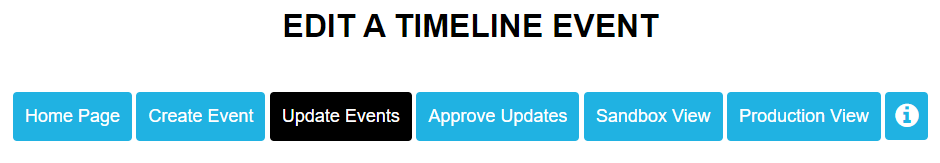
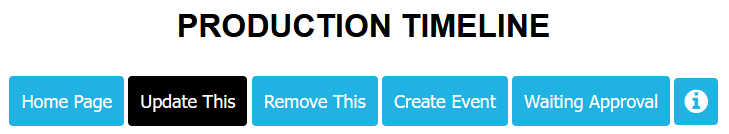
updating help

Changed region(s): [[0.0, 0.5373, 0.9959, 0.9552], [0.2414, 0.0597, 0.7545, 0.2985]]

diff --git a/css/style.css b/css/style.css
@@ -31,7 +31,7 @@ body,p {
   top: 0;
   margin: 1em;
   padding: 0.5em;
-  color: #ccc;
+  color: #aaa;
   border: 1px solid #ddd;
   border-radius: 4px;
 }

diff --git a/src/help.php b/src/help.php
@@ -44,6 +44,44 @@
 
       <div class="leftBlock">
 
+      <h2>Guideline to Contribute to the CIS History Timeline</h2>
+
+        <b>This document provides a guideline on best practices while contributing to the CIS History Timeline (CIS-HT).</b>
+        <br><br>
+        The purpose of the CIS-HT is to provide a portal where CIS students, researchers, and the public in general can find important past (and future, i.e. soon-to-be-past) 
+        events in the History of the CIS and CI in general.  Here, users will be able to upload pictures of attendees and participants in such CIS events; original documents,
+         manuscripts, and reports that reflect important milestones in our history and the history of the development of CI and AI in general; videos with interviews of 
+         prominent researchers; and so on.  The CIS-HT follows a wikipedia-like model where anyone can contribute. However, ours is a moderated model, meaning: contributions 
+         will be submitted and initially hidden from other users. All submissions will then be scrutinized by the CIS History Committee members who will approve or reject 
+         the contribution according to the following criteria:
+        <br><br>
+        <b>1.</b> Photos/Videos must be owned by the authors;
+        <br>
+        <b>2.</b> Permissions for use of the material must be obtained whenever applicable;
+        <br>
+        <b>3.</b> Materials/Events should not focus on ‘self-promotion’ or the promotion of any particular group, but of the CIS and its members in general -- e.g. 
+                  pictures of attendees in a conference must not focus on one person/group of people;
+        <br>          
+        <b>4.</b> Documents must have a recognizable and widely accepted historical value to the CIS;
+        <br>
+        ...
+        <br><br>
+        Once approved, the contribution will be made publicly visible and the author(s) will be notified. If any contribution violates any of the guidelines, the author of the contribution will be simply informed of the guideline number that was violated. No further explanations will be provided, however one opportunity for an appeal to the decision will be accepted.
+        <br><br>
+        Indicate in the submission form which criterion is ‘appeable’ -- e.g. #4 would not be appeable. The form should include a justification for the submission.
+        <br><br>
+        For sake of documenting the reason the committee denied a contribution and avoid having to list every single reason, the form will include a reason for the denial.  
+        <br><br>
+        Add information on how to submit (directly on the website or by email). 
+        <br><br>
+        Copyright material: should be mentioned? Should it list the name of the owner? Keep archive of all submission forms, emails, etc… with copyright information.
+        <br><br>
+        Make website look and feel like a museum 
+        <br><br>
+        Prepare the form for downloading and online access
+
+        <br><br><hr><br><br>
+
 
         <span id="navegation"> </span>
           <h2>How to Navigate The Timeline</h2>
@@ -55,7 +93,7 @@
           <h2>How To Create a New Event</h2>
           <ul class="helpItem">
             <li>Click on the "Create Event" menu button.</li>
-            <img class="helpImg" src="/img/CreateEvent.png" width="800px" title="Create Option">
+            <img class="helpImg" src="/img/CreateEvent.png" width="550px" title="Create Option">
             <li>Field the event information <a href="#Enfio"><i style="font-size:24px; color:#20b2e2" class="fa">&#xf059;</i></a>. Every event must have at least a title and a start date.</li>
             <li>Include the comments/reason about the new event at the end of form and click on the "Create" button to submit the form.</li>
             <li>You can update the new event later after creating it. The new event will move to production when the Historical Committe aprove it. </li>
@@ -101,34 +139,36 @@
         <span id="updating"> </span>
           <h2>How To Update an Event</h2>
           <ul class="helpItem">
-            <li>Click on the "Update Event" menu button.</li>
-            <img class="helpImg" src="/img/UpdateEvent.png" width="800px" title="Update Event">
-            <li>A list of events will be displayed. Your updated events will be displayed at the top of the list followed by other events in production sorted by starting date. </li>
-            <img class="helpImg" src="/img/UpdateEventList.png" width="800px" title="Event's list">
-            <li>Click on the "Update" button option. A new page will be loaded with the event's information.
-              Update the event's information, include some comments or reason about the updates for the committee and click on "Update" to save your changes.
+            <li>Click on the "Launch Timeline" menu button.</li>
+            <img class="helpImg" src="/img/LaunchTimeline.png" width="550px" title="Launch Timeline">
+            <li>Look for the event you need to update in the Production Timeline. When the event to be updated is displayed on your screen, Click on the menu option "Update This" to open the updating page.</li>
+            <img class="helpImg" src="/img/UpdateEvent.png" width="550px" title="Update This Event">
+            <li>A new page will be loaded with the event's information.
+              Update the event's information, and include some comments or reason about the updates for the committee. Click on "Update" to save your changes.
               You can continue editing the event again until the Historical Committee approve or reject your request.</li>
-            <li>Use the "Forget" button if you want to forget any changes done on the event. After using this option the event will disapered from the edition list and it will be displayed again in the production events without modifiecations.</li>
+              <li>You can see and edit your updates and removals with the menu option "Waiting Approval."</li>
           </ul>
 
         <br><br><hr><br><br>
 
         <span id="removing"> </span>
           <h2>How To Remove an Event</h2>
-          <img class="helpImg" src="/img/UpdateEvent.png" width="800px" title="Remove Event">
+          <ul class="helpItem">
+            <li>Click on the "Launch Timeline" menu button.</li>
+            <img class="helpImg" src="/img/LaunchTimeline.png" width="550px" title="Launch Timeline">
+            <li>Look for the event you want to remove in the Production Timeline. When the event to be removed is displayed on your screen, Click on the menu option "Update This" to open the updating page.</li>
+            <img class="helpImg" src="/img/RemoveEvent.png" width="550px" title="Remove This Event">
+            <li>Include your comments or reason why the event should be removed for the committee. Click on "Yes" to request the removal.</li>
+            <li>You can see and edit your updates and removals with the menu option "Waiting Approval."</li>
+          </ul>
 
         <br><br><hr><br><br>
 
         <span id="approving"> </span>
           <h2>How To Approve a Request</h2>
-          <img class="helpImg" src="/img/ApproveEvent.png" width="800px" title="Approve Request">
-
-
-        <br><br><hr><br><br>
-
-        <span id="sandbox"> </span>
-          <h2>The Sandbox Timeline</h2>
-          <img class="helpImg" src="/img/SandboxView.png" width="800px" title="Sandbox Timeline">
+          <ul class="helpItem">
+            <img class="helpImg" src="/img/ApproveEvent.png" width="550px" title="Approve Request">
+          </ul>        
 
       </div>
 

diff --git a/src/menu.php b/src/menu.php
@@ -34,7 +34,7 @@ if($filename == 'timeline-Launch.php'){
       <input type="hidden" name="page" value="listEvents" />
       <input type="hidden" name="counter" value="0" />
       <input type="submit" name="optUpd" onclick="setOpt('upd')" value="Update This" />
-      <input type="submit" name="optDel" onclick="setOpt('del')" value="Delete This" />
+      <input type="submit" name="optDel" onclick="setOpt('del')" value="Remove This" />
     </form>
 
       <script>
